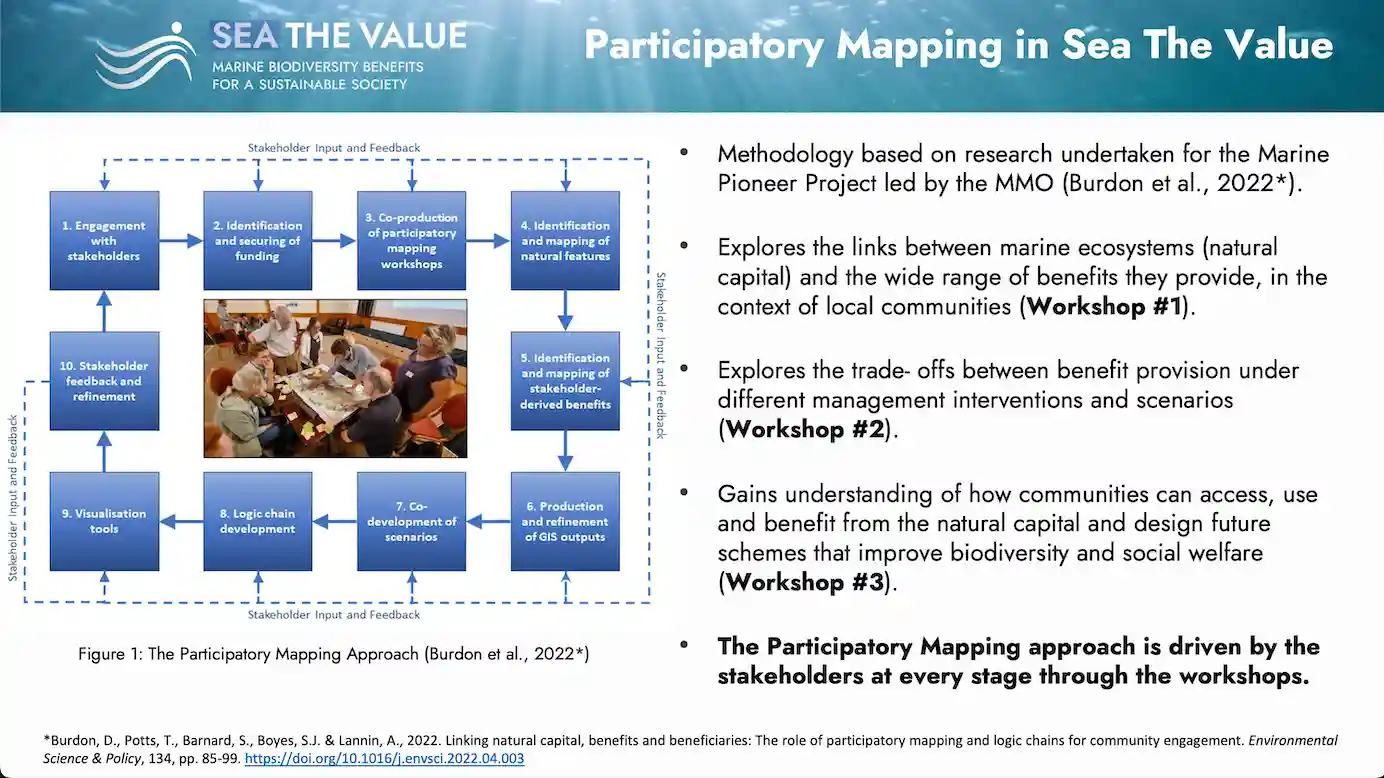
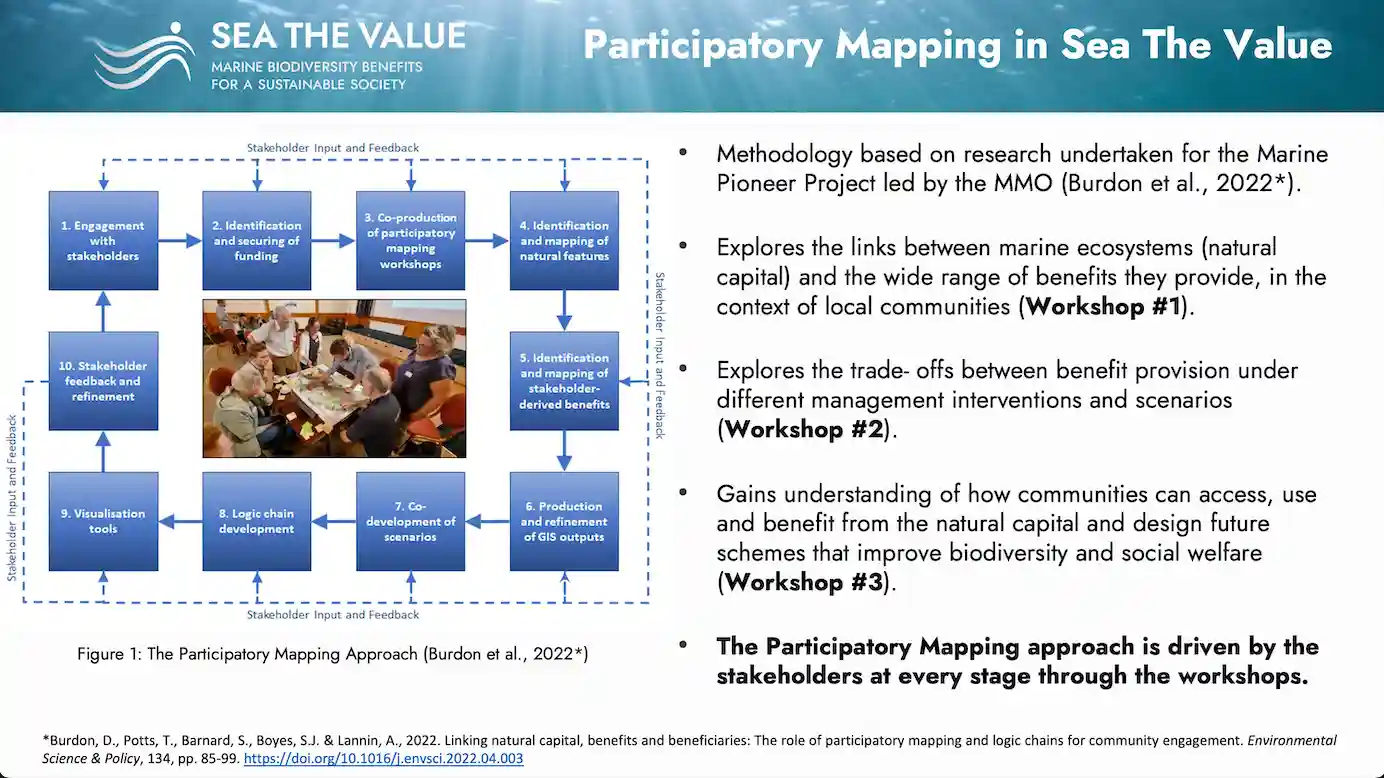
replace stv slide2; remove extra hr

diff --git a/docs/news/conference_jan24.html b/docs/news/conference_jan24.html
@@ -301,12 +301,12 @@ ul.task-list li input[type="checkbox"] {
 </div>
 </div>
 <hr>
-<hr>
 </section>
 </section>
 <section id="sea-the-value" class="level3">
 <h3 data-anchor-id="sea-the-value">Sea the Value</h3>
-<p>Read more about the aims of this project <a href="https://economicsofbiodiversity.org/sea.html">here.</a> (click to enlarge)</p>
+<p>Read more about the aims of this project <a href="https://economicsofbiodiversity.org/sea.html">here.</a></p>
+<p>(click to enlarge)</p>
 <div class="quarto-layout-panel">
 <div class="quarto-layout-row quarto-layout-valign-top">
 <div class="quarto-figure quarto-figure-center" style="flex-basis: 20.0%;justify-content: center;">
@@ -767,7 +767,7 @@ window.document.addEventListener("DOMContentLoaded", function (event) {
     <div class="nav-footer-right"><a href="mailto:econ.biodiv@uea.ac.uk">econ.biodiv@uea.ac.uk</a> <a href="../images/EB_logo_footer.png" class="lightbox" data-gallery="quarto-lightbox-gallery-52"><img src="../images/EB_logo_footer.png" height="70"></a></div>
   </div>
 </footer>
-<script>var lightboxQuarto = GLightbox({"closeEffect":"zoom","openEffect":"zoom","loop":false,"selector":".lightbox","descPosition":"bottom"});</script>
+<script>var lightboxQuarto = GLightbox({"loop":false,"descPosition":"bottom","selector":".lightbox","openEffect":"zoom","closeEffect":"zoom"});</script>
 
 
 

diff --git a/docs/news_posts.html b/docs/news_posts.html
@@ -177,7 +177,7 @@ ul.task-list li input[type="checkbox"] {
 
 <div id="listing-news-listings" class="quarto-listing quarto-listing-container-default">
 <div class="list quarto-listing-default">
-<div class="quarto-post image-left" data-index="0" data-listing-date-sort="1705276800000" data-listing-file-modified-sort="1706263329142" data-listing-date-modified-sort="NaN" data-listing-reading-time-sort="2">
+<div class="quarto-post image-left" data-index="0" data-listing-date-sort="1705276800000" data-listing-file-modified-sort="1706264509628" data-listing-date-modified-sort="NaN" data-listing-reading-time-sort="2">
 <div class="thumbnail">
 <p><a href="./news/conference_jan24.html"> <img src="./news/images/blog_conference/notts_county.webp" class="thumbnail-image" style="height: 150px;"> </a></p>
 </div>
